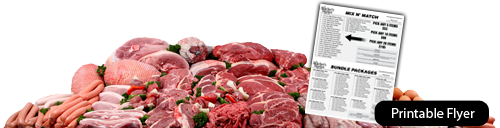
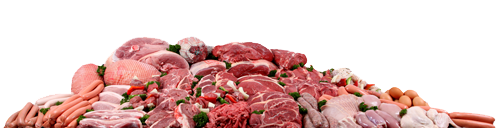
started styling.. this is half done and just an example

Changed region(s): [[0.6, 0.0, 0.99, 1.0]]

diff --git a/index.html b/index.html
@@ -72,7 +72,17 @@
       </div>
     </nav>
 
-    <div id="meat" class="section-bubble section-bubble-cab">
+    
+
+    <div class="section section-meat">
+      <div class="section-header">
+        <div class="container">
+          <h1 class="section-title">Meat</h1>
+          <img src="images/meat.png" class="img-responsive section-image">
+        </div>
+      </div>
+
+      <div id="meat" class="section-bubble section-bubble-cab">
       <div class="section-bubble-body">
         <div class="row">
           <div class="col-sm-9 col-md-7 cab-text">
@@ -93,19 +103,16 @@
       </div>
     </div>
 
-    <div class="section section-meat">
-      <div class="section-header">
-        <div class="container">
-          <h1 class="section-title">Meat</h1>
-          <img src="images/meat.png" class="img-responsive section-image">
-        </div>
-      </div>
-
 
       <div class="section-description">
         <div class="container">
+          <div class="col-md-6">
           <h2>Bundle Packages!</h2>
           <p>we have a package for every household!</p>
+          </div>
+          <div class="col-md-6">
+          <img src="/images/bundles-flyer.png">
+          </div>
         </div>
       </div>
 
@@ -303,10 +310,10 @@
         </div>
       </div>
 
-      <div class="section-header">
+   <div class="section-description">
         <div class="container">
-          <h1 class="section-title">Ice Box Mix N' Match</h1>
-          <img src="images/icebox.png" class="img-responsive section-image">
+          <h2>Ice Box Mix N' Match</h2>
+          <p>Fill your freezer with quick, easy, and affordable side items and instant meals!</p>
         </div>
       </div>
 
@@ -385,7 +392,16 @@
       </div>
     </div>
 
-    <div id="deli" class="section-bubble">
+   
+
+    <div class="section section-deli">
+      <div class="section-header">
+        <div class="container">
+          <h1 class="section-title">Deli</h1>
+          <img src="images/deli.png" class="img-responsive section-image">
+        </div>
+      </div>
+       <div id="deli" class="section-bubble">
       <div class="section-bubble-body bubble-body-bh">
         <div class="row">
           <div class="col-md-5 bh-logo-column">
@@ -404,14 +420,6 @@
         </div>
       </div>
     </div>
-
-    <div class="section section-deli">
-      <div class="section-header">
-        <div class="container">
-          <h1 class="section-title">Deli</h1>
-          <img src="images/deli.png" class="img-responsive section-image">
-        </div>
-      </div>
       <div class="section-description">
         <div class="container">
           <h2>Fresh Made Everything!</h2>
@@ -1132,10 +1140,14 @@
           <img src="images/beverage.png" class="img-responsive section-image">
         </div>
       </div>
-      <div class="section-body section-beer-content">
+      <div class="section-description">
         <div class="container">
           <h2>Beer</h2>
           <p>Micro brews, macro brews, imported, domestic, locally brewed, bottled, canned, on tap, growlers... you get the drift. We have a beer just for you!</p>
+        </div>
+      </div>
+      <div class="section-body section-beer-content">
+        <div class="container">
           <div class="row">
             <div class="col-xs-6 col-sm-4 col-md-2">
               <div class="product-item deli-item">
@@ -1240,10 +1252,15 @@
         </div>
       </div>
 
-      <div class="section-body section-wine-content">
+         <div class="section-description">
         <div class="container">
-          <h1>Wine</h1>
+          <h2>Wine</h2>
           <p>Regardless of your taste in wine, we have a wine in stock that will suite your flavor and meal.</p>
+        </div>
+      </div>
+      <div class="section-body section-wine-content">
+     
+        <div class="container">
           <div class="row">
             <div class="col-xs-6 col-sm-4 col-md-2">
               <div class="product-item deli-item">
@@ -1321,10 +1338,14 @@
         </div>
       </div>
 
+         <div class="section-description">
+        <div class="container">
+          <h2>Non-Alcoholic</h2>
+          <p>Beer, wine, and spirits aren't the only beverage that can be enjoyed... We have a large selection of hand crafted/ specialty non-alcoholic drinks to choose from as well!</p>
+        </div>
+      </div>
       <div class="section-body section-non-alcoholic-content">
         <div class="container">
-          <h1>Non-Alcoholic</h1>
-          <p>Beer, wine, and spirits aren't the only beverage that can be enjoyed... We have a large selection of hand crafted/ specialty non-alcoholic drinks to choose from as well!<p>
           <div class="row">
             <div class="col-xs-6 col-sm-4 col-md-2">
               <div class="product-item deli-item">

diff --git a/less/app/sections.less b/less/app/sections.less
@@ -23,8 +23,10 @@
 }
 
 .section-description {
-  background: @gray-light;
+  background: #614736;
+  background-image: url(../images/leather.jpg);
   padding: 25px 0;
+  color: #fff;
 
   h2 {
     margin-top: 0;
@@ -37,7 +39,7 @@
 
 .section-body {
   padding: 25px;
-  background: @gray-lighter;
+  background: #D6CDBC;
 }
 
 .section-bubble-header {
